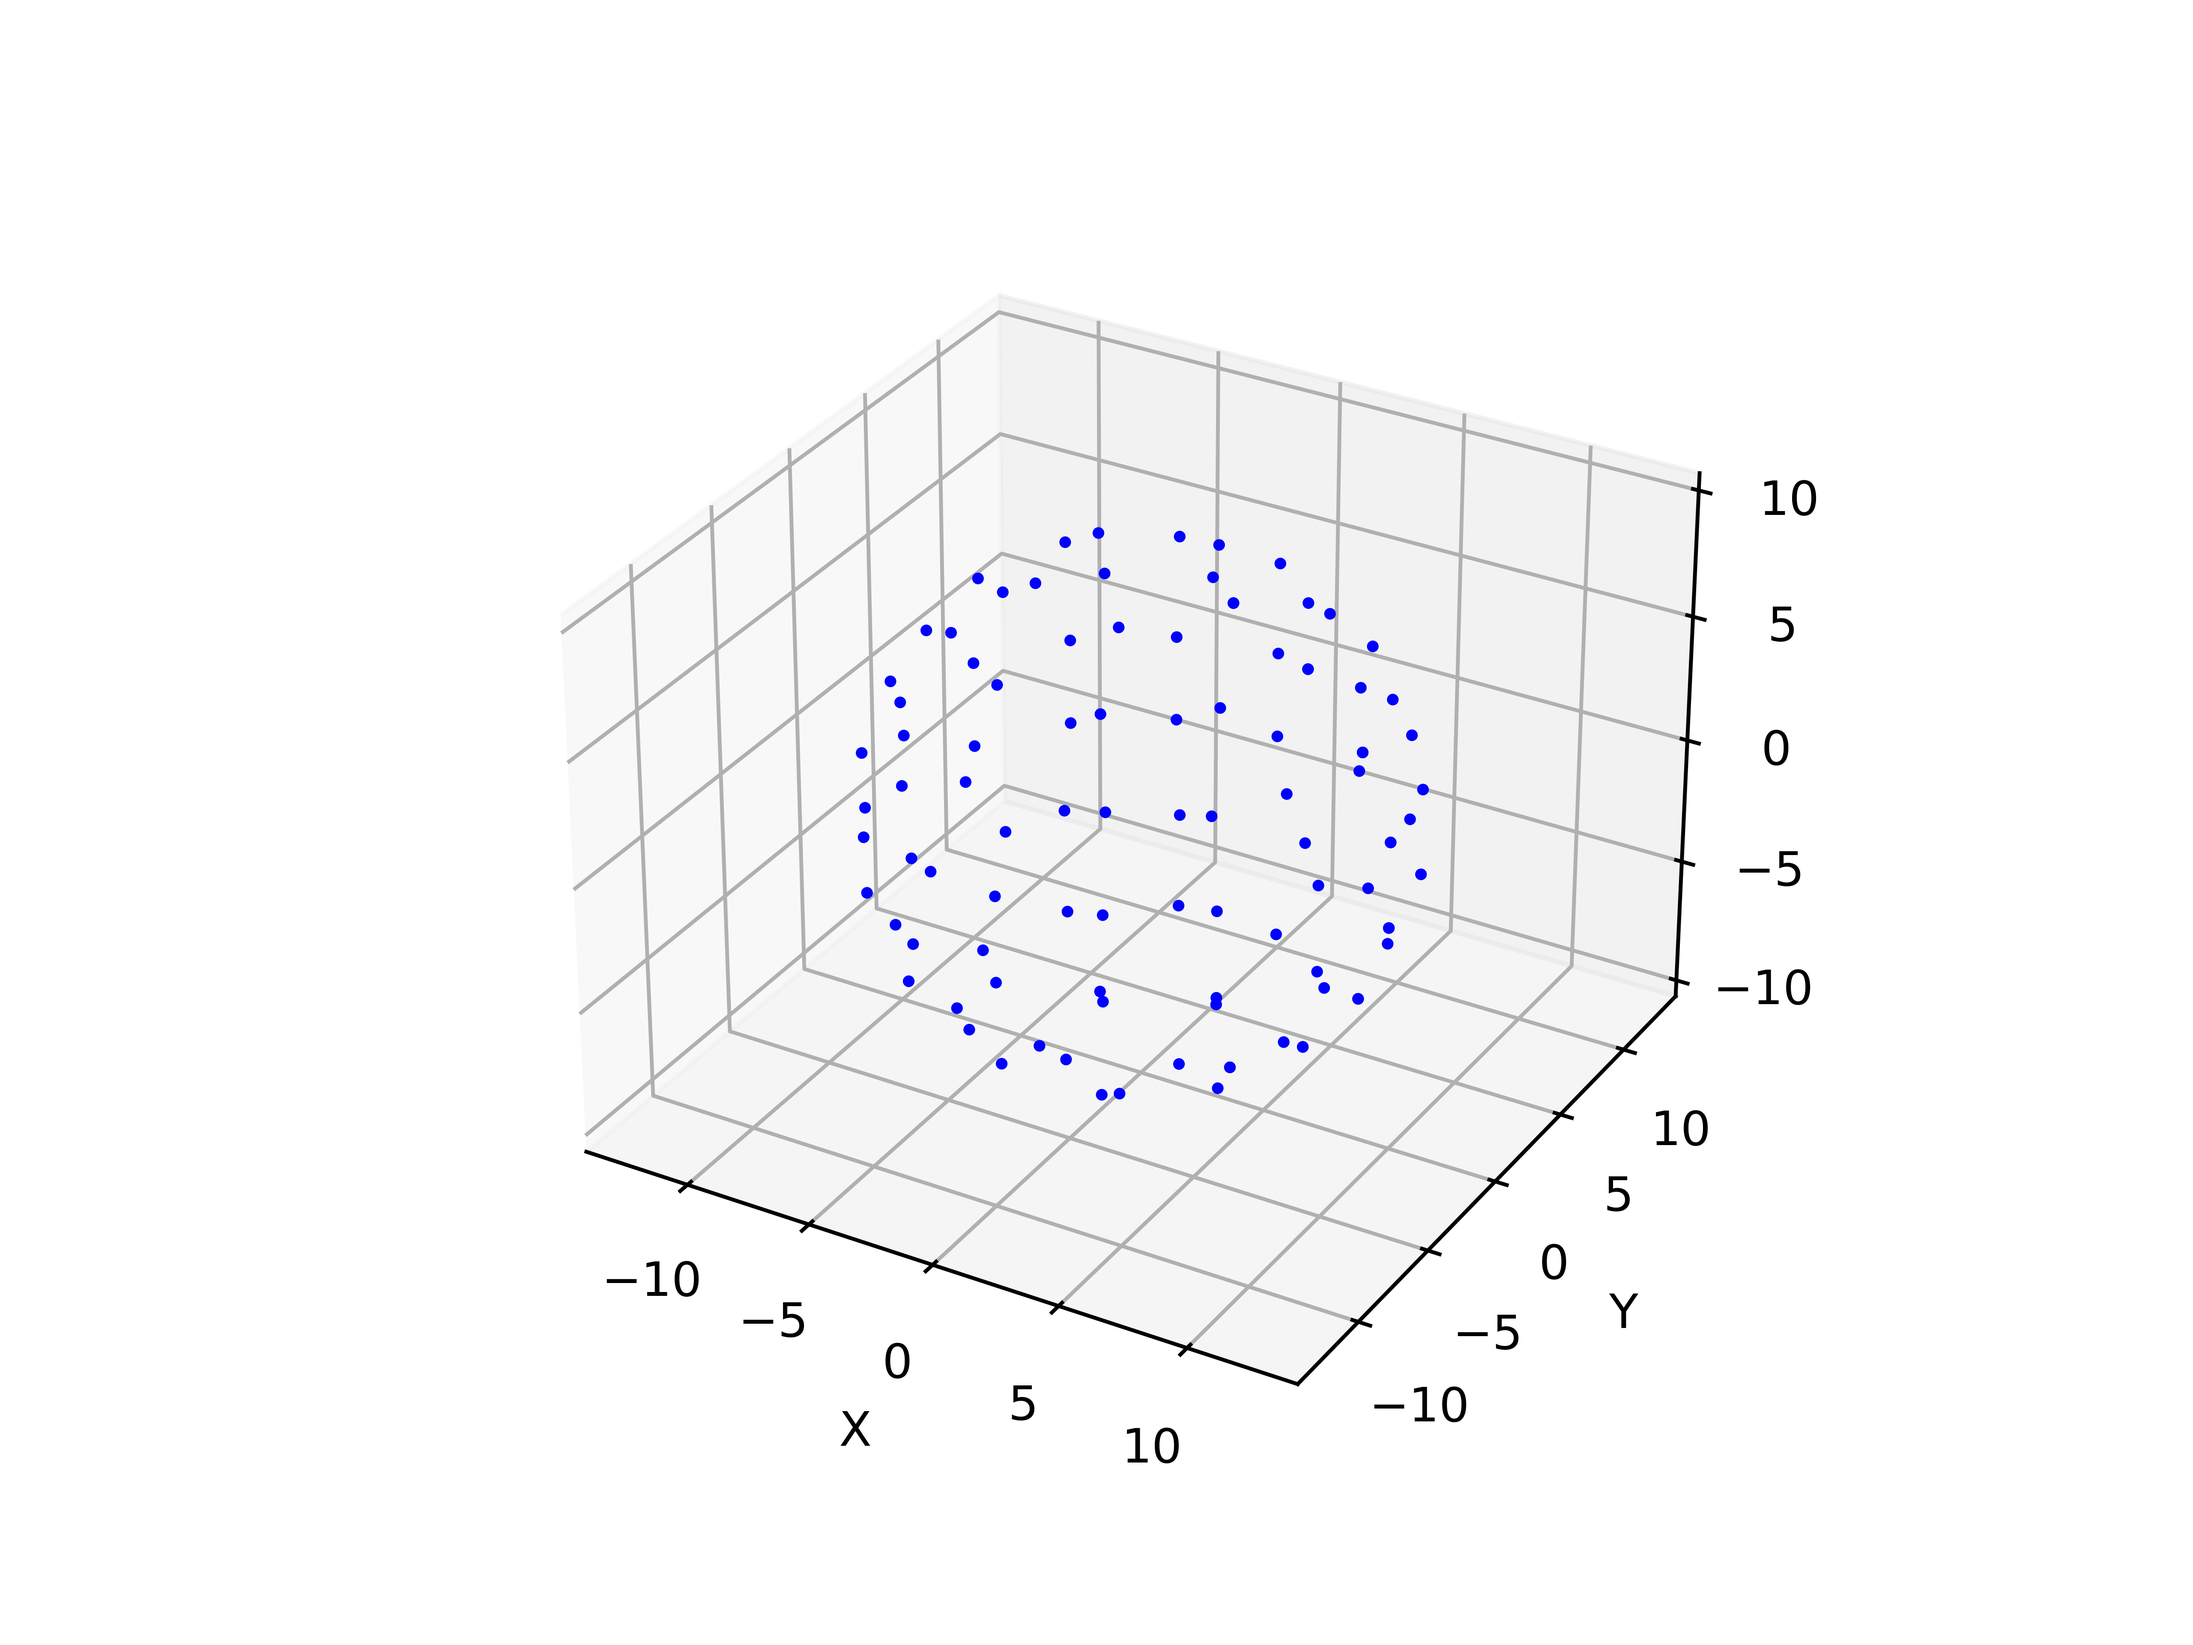
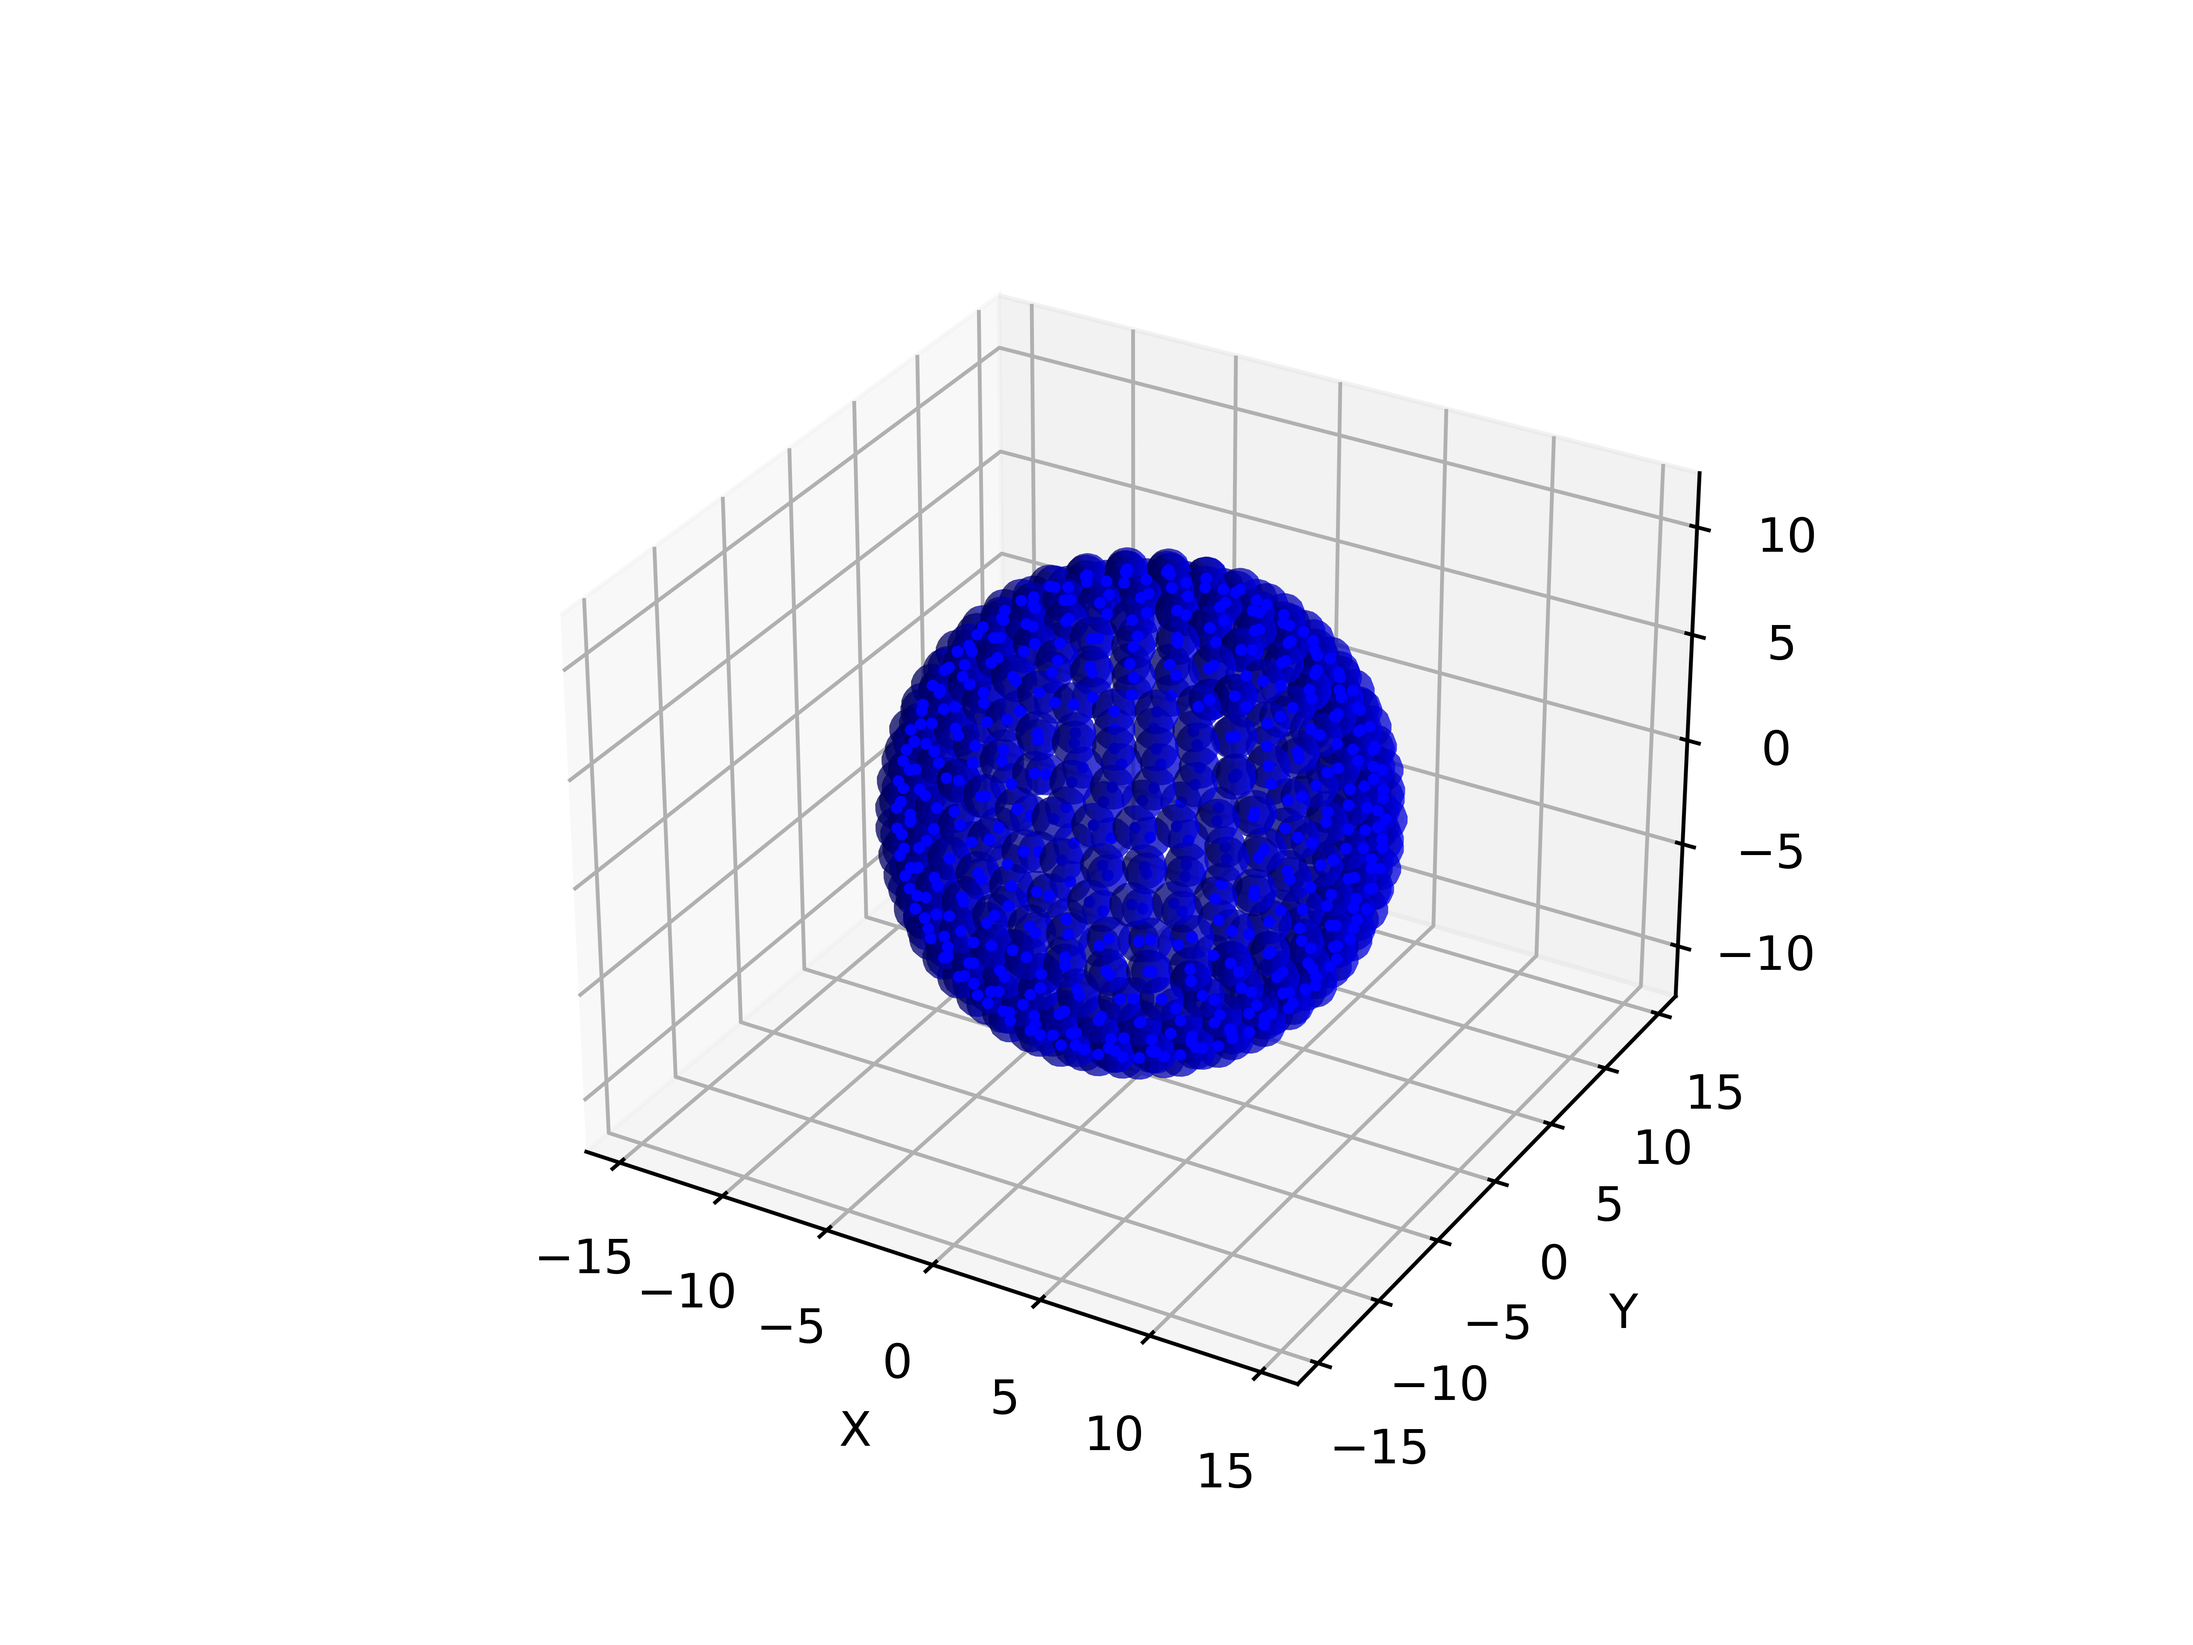
SEA начал делать алгоритм

diff --git a/Points_arragement_Pavel_2/3d_visual.py b/Points_arragement_Pavel_2/3d_visual.py
@@ -7,8 +7,7 @@ from mpl_toolkits.mplot3d import Axes3D
 box_limit = 12
 point_size = 24
 filename = 'Star_PAVEL_2'
-h = 3
-N = 1000
+N = 500
 R = 10
 
 
@@ -22,8 +21,6 @@ Acap = Areg
 Ocap = 2 * np.arcsin(np.sqrt(1 / N))
 Ncol = np.round((np.pi - 2 * Ocap) / np.sqrt(Areg))
 Ocol = (np.pi - 2 * Ocap) / Ncol
-# A(i) = 4 * np.pi * (np.sin(O(i) / 2)**2 - np.sin(O(i - 1) / 2)**2)
-# N(i) = A(i) / Areg 
 
 f = [0]
 O = np.arange(Ocap, np.pi, Ocol)
@@ -41,8 +38,10 @@ for i in range(1, len(O)):
 x = np.concatenate((x, np.array([0, 0])))
 y = np.concatenate((y, np.array([0, 0])))
 z = np.concatenate((z, np.array([-R, R])))
-    
-
+h = np.sqrt(Areg / np.pi)   
+print(h)
+h = np.sqrt((R**2 * 4 * np.pi) / (len(x) * np.pi))
+print(h)
 # print(np.degrees(Ocap))
 # print(np.degrees(Ocol))
 # print(Ncol)
@@ -54,8 +53,8 @@ sc = ax.scatter(x, y, z, s=point_size, edgecolors='none', color = 'blue', alpha=
 
 
 def draw_poles():
-    phi = np.linspace(0, 2 * np.pi, 25)
-    alpha = np.linspace(0, np.pi, 15)
+    phi = np.linspace(0, 2 * np.pi, 15)
+    alpha = np.linspace(0, np.pi, 10)
     phi, alpha = np.meshgrid(phi, alpha)
     poles_x = []
     poles_y = []
@@ -70,12 +69,12 @@ def draw_poles():
                     linewidth=0,        
                     edgecolor='none') 
 
-
+draw_poles()
 
 plt.xlabel('X')
 plt.ylabel('Y')
 plt.xlim(-box_limit, box_limit)
 plt.ylim(-box_limit, box_limit)
 plt.axis('equal')
-# plt.savefig('images/' + filename + '.png', dpi = 800)
-plt.show()
+plt.savefig('images/' + filename + '.png', dpi = 800)
+# plt.show()
